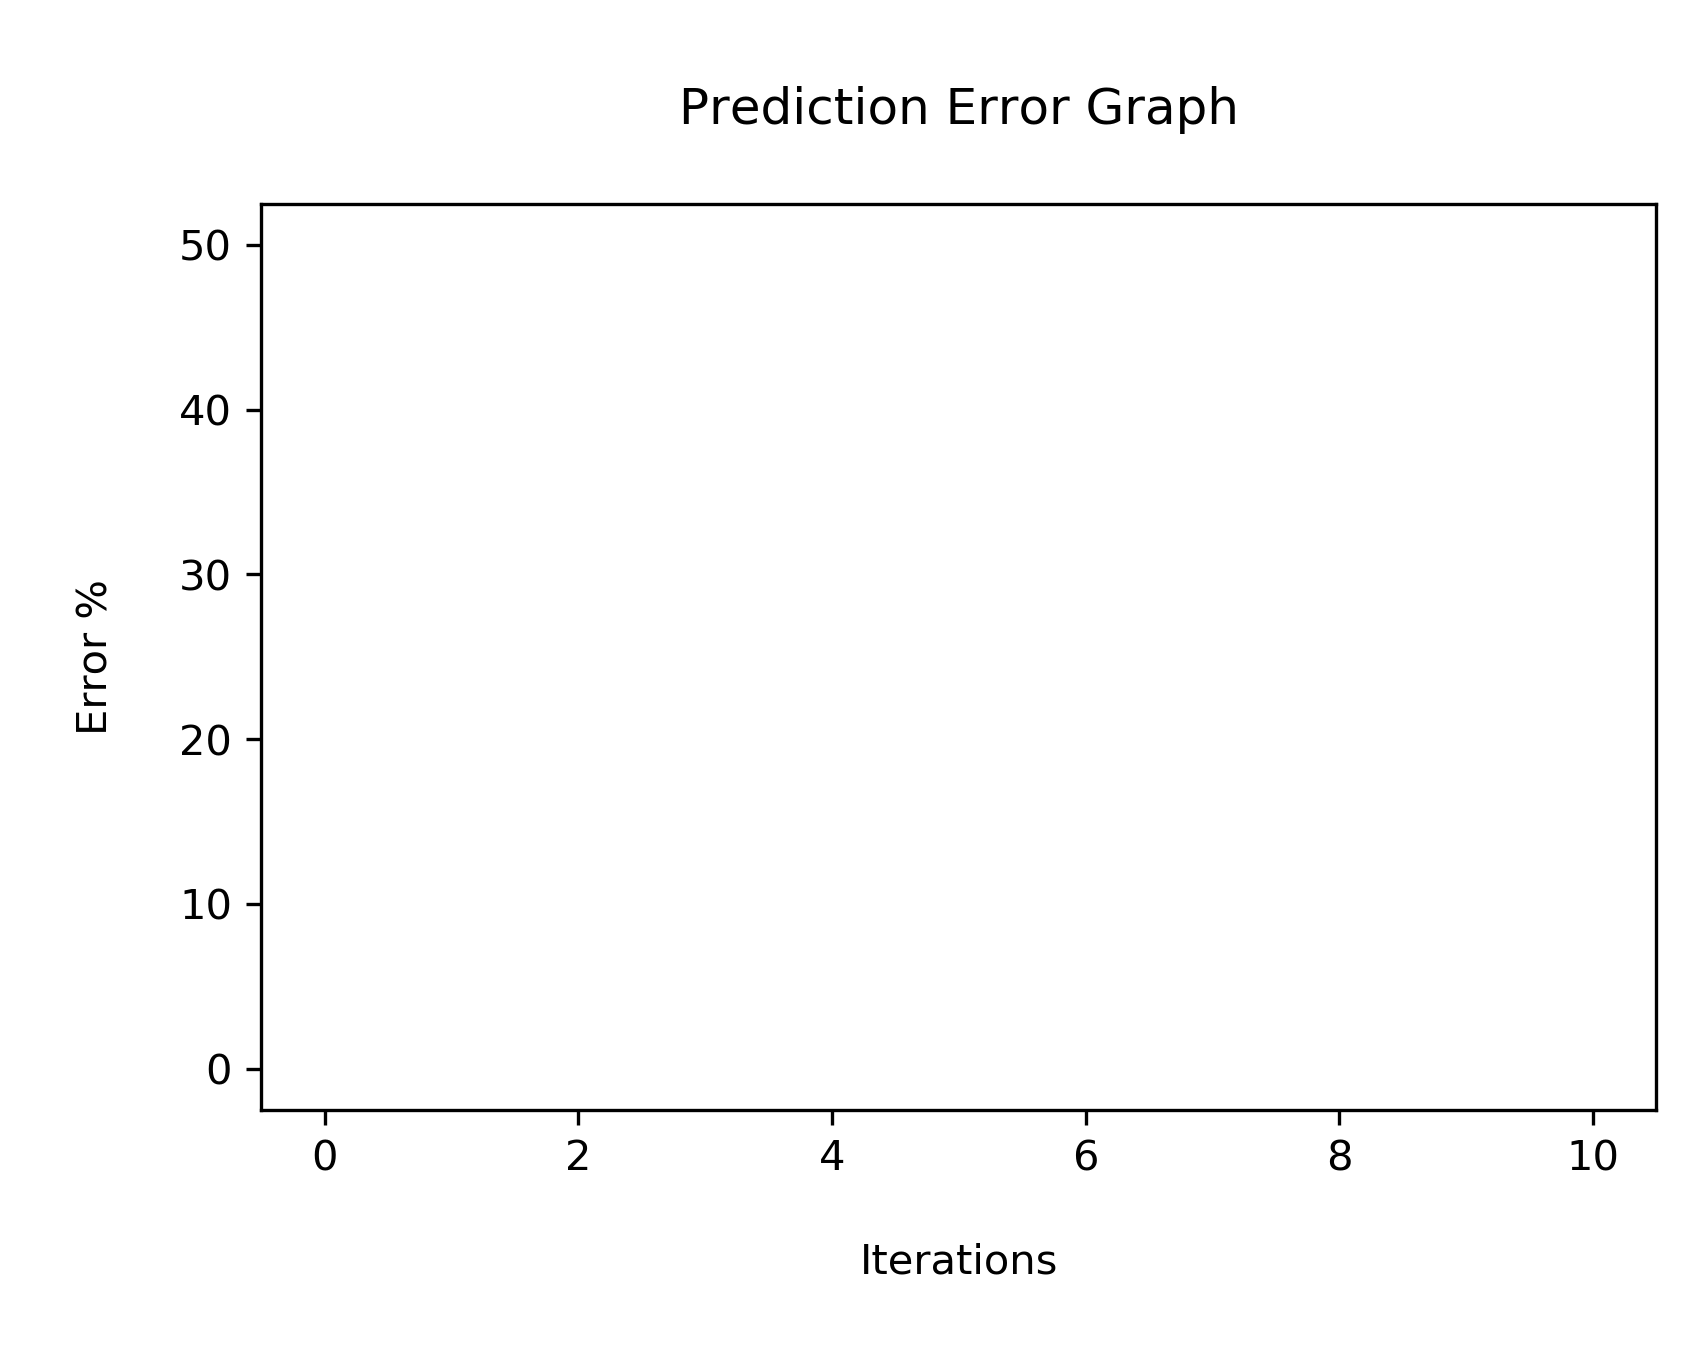
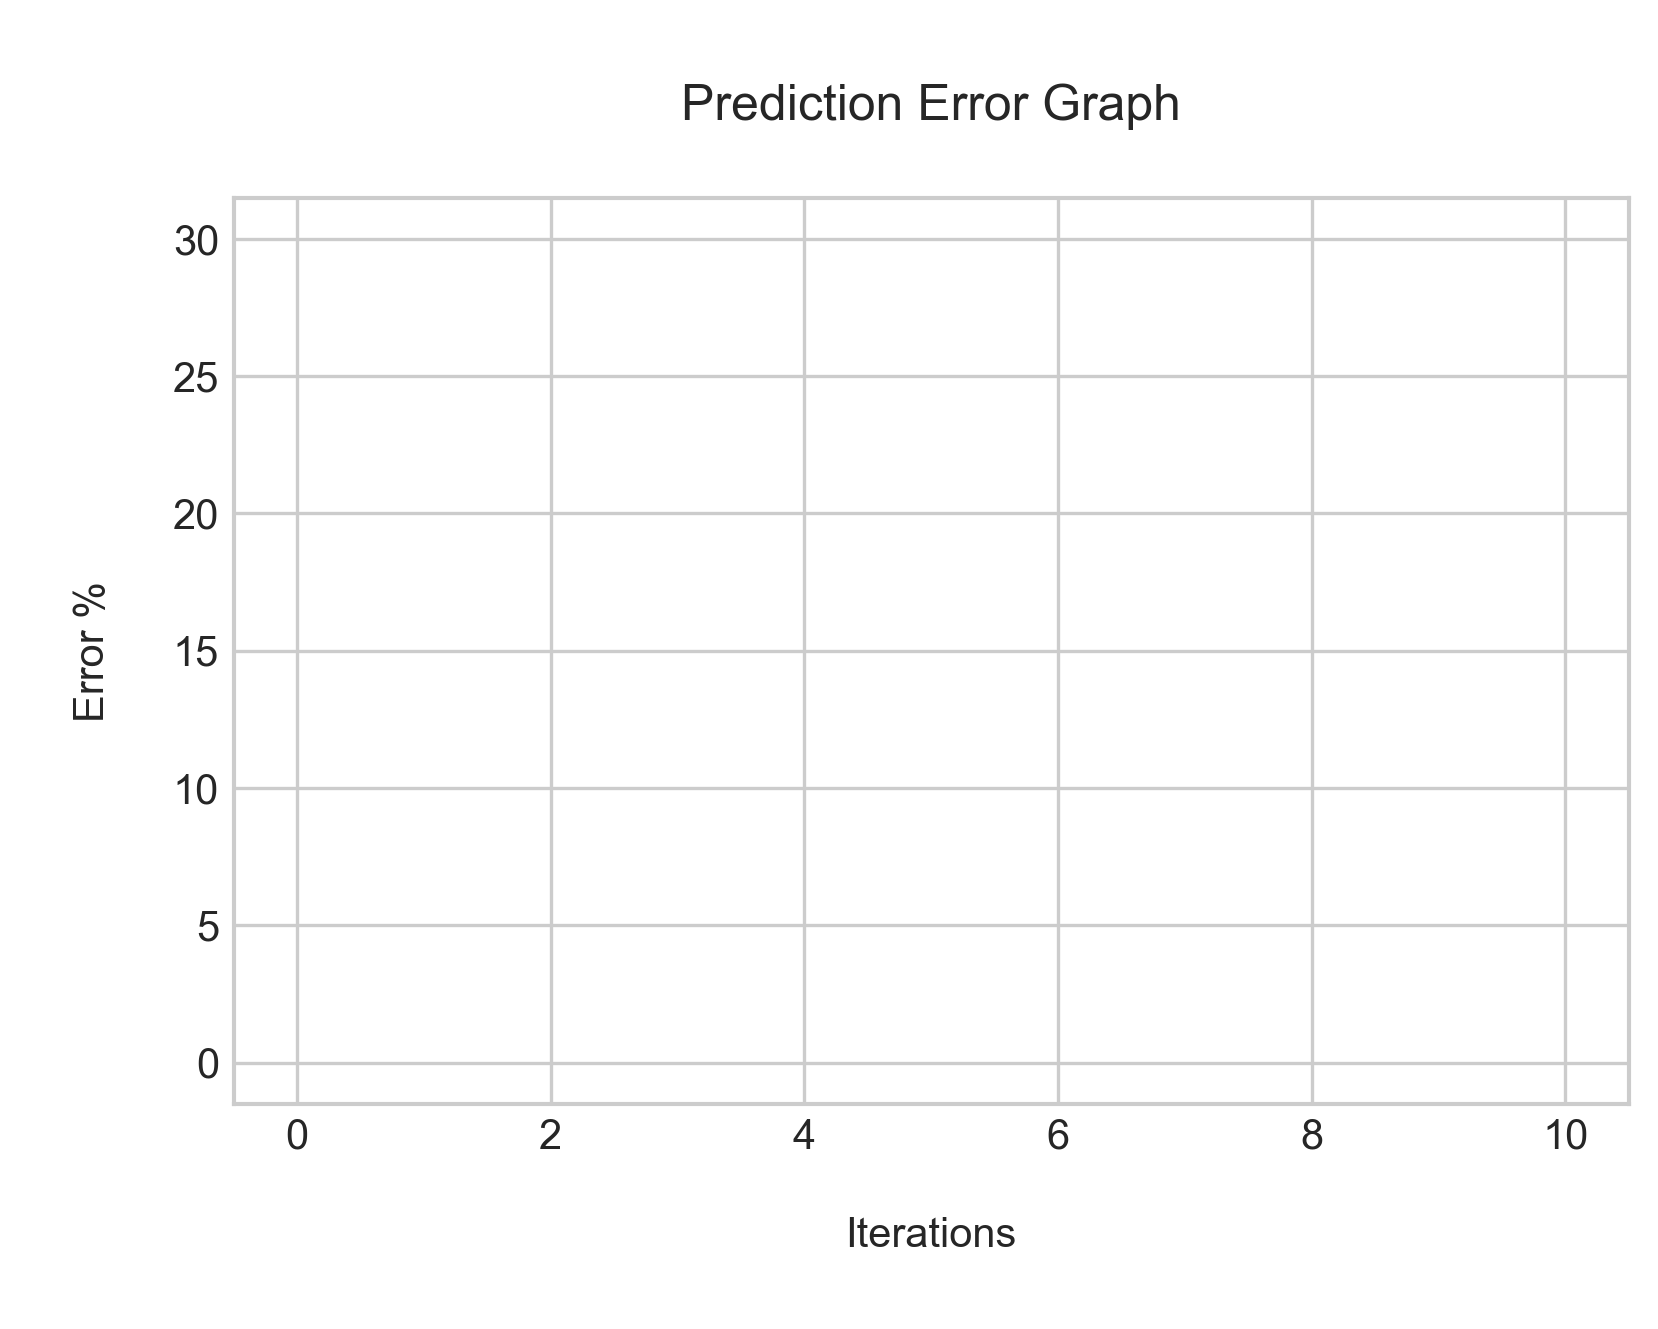
fixed all problems!

diff --git a/dataWidget.py b/dataWidget.py
@@ -94,11 +94,14 @@ class Window(tk.Frame):
         exportBtn = ttk.Button(buttons, text='导出CSV', command=self.exportData)
         exportBtn.pack(side='left')
         
-        importBtn = ttk.Button(buttons, text='导入CSV + 建模', command=self.importData)
+        importBtn = ttk.Button(buttons, text='导入CSV建模', command=self.importData)
         importBtn.pack(side='left')
         
         deleteBtn = ttk.Button(buttons,text='删除此条数据', command=self.deleteData)
         deleteBtn.pack(side='left')
+        
+        deleteAllBtn = ttk.Button(buttons, text='删除所有数据', command=self.deleteAllData)
+        deleteAllBtn.pack(side='left')
         
         self.saveBtn = ttk.Button(buttons, text='保存变更', command=self.saveData)
         #self.saveBtn.pack(side='left')
@@ -220,6 +223,65 @@ class Window(tk.Frame):
         
         
         ###########################
+    def deleteAllData(self, event=1):
+        self.confirmDeleteAllWindow = tk.Toplevel()
+        self.confirmDeleteAllWindow.wm_title("删除所有数据")
+        self.confirmDeleteAllWindow.geometry('300x100')
+        self.confirmDeleteAllWindow.wm_attributes("-topmost", 1)
+        label = tk.Label(self.confirmDeleteAllWindow, text='确定删除所有数据？\n（所有数据删除后不可恢复！模型将会重置成初始未训练状态！）', wraplength=250)
+        label.pack(expand=True)
+        btnFrame = tk.Frame(self.confirmDeleteAllWindow)
+        btnFrame.pack(expand=True)
+        
+        btnOK = ttk.Button(btnFrame, text='确定', command=self.clearAllData)
+        btnOK.pack(side='left')
+        
+        btnCancel = ttk.Button(btnFrame, text='取消', command=self.confirmDeleteAllWindow.destroy)
+        btnCancel.pack(side='left')
+        ...
+        
+    def clearAllData(self, event=1):
+        self.data['X'] = []
+        self.data['Ypred'] = []
+        self.data['Y'] = []
+        self.data['err'] = []
+        self.data['e'] = []
+        dataFile = self.modelName + '.data.json'
+        with open(path / 'models' / self.modelName / dataFile, 'w') as f:
+            f.write(json.dumps(self.data))
+        
+        #clear all .model
+        models = glob.glob(str((path / 'models' / self.modelName / '*.model').absolute()))
+        [os.remove(model) for model in models]
+        self.status.configure(text='删除数据成功！')
+        self.update_idletasks()
+        
+        plt.style.use('seaborn-whitegrid')
+        #plt.scatter(range(1,len(e)+1), e, s=40, marker='o', color='slategray')
+        plt.scatter([0,10],[0,30], s=0, marker='o', color='slategray')
+        #plt.plot(range(1,len(e)+1), e, color='slateblue')
+        plt.title('\nPrediction Error Graph\n')
+        plt.xlabel('\nIterations\n')
+        plt.ylabel('\nError %\n')
+        plt.savefig(path / 'models' / self.modelName / 'training.png' , dpi=300, bbox_inches = "tight", transparent=True)
+        plt.clf()
+        #self.body.pack_forget()
+        #clear all entries in the dataTable
+        for row in self.entries:
+            for j, cell in enumerate(row):
+                if j > 0:
+                    if j % 2 == 0:
+                        cell.configure(state='normal')
+                        cell.delete(0, tk.END)
+                        cell.configure(state='disabled')
+                    else:
+                        cell.delete(0,tk.END)
+                
+        self.refresh()         
+                
+        self.confirmDeleteAllWindow.destroy()
+        ...
+    
     def deleteData(self, event=1):
         #print(self.id)        
         self.confirmWindow = tk.Toplevel()
@@ -242,7 +304,7 @@ class Window(tk.Frame):
         self.data['Ypred'].pop(self.id)
         self.data['Y'].pop(self.id)
         self.data['err'].pop(self.id)
-        
+        self.data['e'].pop(self.id)
         dataFile = self.modelName + '.data.json'
         with open(path / 'models' / self.modelName / dataFile, 'w') as f:
             f.write(json.dumps(self.data))
@@ -330,7 +392,7 @@ class Window(tk.Frame):
             self.saveBtn.pack(side='left')
         else:
             self.status.configure(text='正常')
-            self.saveBtn.pack_forget()
+            
         ...
         
     def refresh(self, event=1):
@@ -504,6 +566,11 @@ class Window(tk.Frame):
         Y = self.data['Y']
         Ypred = self.data['Ypred']
         err = self.data['err']
+        
+        if not X:
+            self.status.configure(text='没有数据，无法导出')
+            return
+        
         rows = []
         rows.append(['id','数据类'] + list(X[0].keys()))
         for i, x in enumerate(X):
@@ -542,6 +609,9 @@ class Window(tk.Frame):
             csvreader = csv.reader(open(filename, 'r', encoding='gbk', newline=newline).readlines(), dialect='excel')
         except UnicodeDecodeError:
             csvreader = csv.reader(open(filename, 'r', encoding='utf-8', newline=newline).readlines(), dialect='excel')
+        
+        except FileNotFoundError:
+            return
         
         #check data validity
         acceptedTypes = ['进水', '专家反馈出水']
@@ -711,8 +781,11 @@ class Window(tk.Frame):
         
         #refresh the dataTable by simply emulating a ComboboxSelected event.
         self.combo.event_generate('<<ComboboxSelected>>')
-        self.listbox.selection_set(self.id)
-        self.listbox.event_generate("<<ListboxSelect>>")
+        try:
+            self.listbox.selection_set(self.id)
+            self.listbox.event_generate("<<ListboxSelect>>")
+        except AttributeError:
+            pass
         
 if __name__ == "__main__":
     root = tk.Tk()

diff --git a/wastewater.py b/wastewater.py
@@ -85,11 +85,17 @@ class wastewater:
         if test:
             return normalState, msg
     
+    def signif(self, x, p):
+        x = np.asarray(x)
+        x_positive = np.where(np.isfinite(x) & (x != 0), np.abs(x), 10**(p-1))
+        mags = 10 ** (p - 1 - np.floor(np.log10(x_positive)))
+        return np.round(x * mags) / mags
+    
     def generateFromOpt(self, optDict):
         optState = False
         while not optState:
             self.simulate(random=True)
-            water = {feature: np.random.uniform(optDict[feature]['min'], optDict[feature]['max']) for feature in optDict}
+            water = {feature: self.signif(np.random.uniform(optDict[feature]['min'], optDict[feature]['max']), 2) for feature in optDict}
             self.water.update(water)
             #self.simulate(water)
             optState, msg = self.conform(test=True)

diff --git a/trainingWidget.py b/trainingWidget.py
@@ -392,7 +392,15 @@ class Window(tk.Frame):
             #feedback column
             cell = self.entries[i][3]
             cell.delete(0,tk.END)
-            if trained:
+            try:
+                dataFile = self.modelName + '.data.json'
+                data = json.loads(open(path / 'models' / self.modelName / dataFile, 'r').read())
+                
+                count = len(data['X'])
+            except:
+                count = 0
+            print('data count',count)
+            if count > 3:
                 cell.insert(tk.END, round(Ypred[feature],1))
             else:
                 cell.insert(tk.END, round(x[feature],1))
